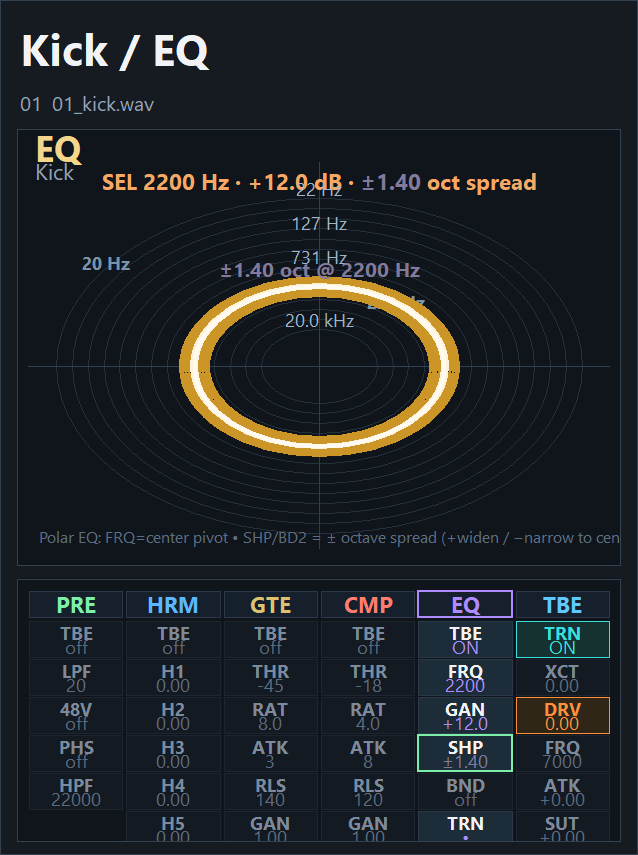
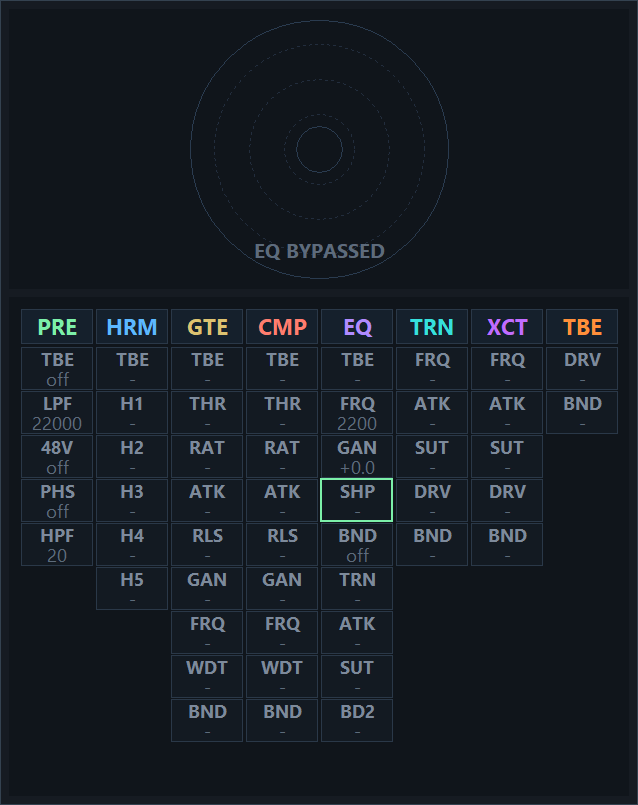
Anchor Polar Display to Master Signal for consistency

diff --git a/Development/software/system_q_ui.py b/Development/software/system_q_ui.py
@@ -257,34 +257,34 @@ class UIMixin:
     def _draw_focus_mic_pre(self, c: tk.Canvas, ch: ChannelState, w: int, h: int) -> None:
         cx, cy, orx, ory, irx, iry = self._focus_geometry(w, h)
         self._draw_focus_ring_grid(c, cx, cy, orx, ory, irx, iry)
-        self._draw_focus_signal(c, ch, cx, cy, orx, ory, irx, iry)
+        self._draw_focus_signal(c, self.engine.master_channel, cx, cy, orx, ory, irx, iry)
         c.create_text(cx, h - 40, text="MIC PRE", fill="#7cf0a9", font=("Segoe UI", 10, "bold"))
 
     def _draw_focus_harmonics(self, c: tk.Canvas, ch: ChannelState, w: int, h: int) -> None:
         cx, cy, orx, ory, irx, iry = self._focus_geometry(w, h)
         self._draw_focus_ring_grid(c, cx, cy, orx, ory, irx, iry)
-        self._draw_focus_signal(c, ch, cx, cy, orx, ory, irx, iry)
+        self._draw_focus_signal(c, self.engine.master_channel, cx, cy, orx, ory, irx, iry)
         c.create_text(cx, h - 40, text="HARMONICS", fill="#5cb8ff", font=("Segoe UI", 10, "bold"))
 
     def _draw_focus_gate(self, c: tk.Canvas, ch: ChannelState, w: int, h: int) -> None:
         cx, cy, orx, ory, irx, iry = self._focus_geometry(w, h)
         self._draw_focus_ring_grid(c, cx, cy, orx, ory, irx, iry)
-        self._draw_focus_signal(c, ch, cx, cy, orx, ory, irx, iry)
+        self._draw_focus_signal(c, self.engine.master_channel, cx, cy, orx, ory, irx, iry)
         c.create_text(cx, h - 40, text="GATE", fill="#ddc270", font=("Segoe UI", 10, "bold"))
 
     def _draw_focus_compressor(self, c: tk.Canvas, ch: ChannelState, w: int, h: int) -> None:
         cx, cy, orx, ory, irx, iry = self._focus_geometry(w, h)
         self._draw_focus_ring_grid(c, cx, cy, orx, ory, irx, iry)
-        self._draw_focus_signal(c, ch, cx, cy, orx, ory, irx, iry)
+        self._draw_focus_signal(c, self.engine.master_channel, cx, cy, orx, ory, irx, iry)
         c.create_text(cx, h - 40, text="COMPRESSOR", fill="#ff7d6e", font=("Segoe UI", 10, "bold"))
 
     def _draw_focus_tone(self, c: tk.Canvas, ch: ChannelState, w: int, h: int) -> None:
         cx, cy, orx, ory, irx, iry = self._focus_geometry(w, h)
         self._draw_focus_ring_grid(c, cx, cy, orx, ory, irx, iry)
-        self._draw_focus_signal(c, ch, cx, cy, orx, ory, irx, iry)
+        self._draw_focus_signal(c, self.engine.master_channel, cx, cy, orx, ory, irx, iry)
         sk = getattr(self, "selected_stage_key", "tbe")
         fill = self._STAGE_HEADER_FILL.get(sk, "#ff8f3a")
-        c.create_text(cx, h - 40, text=sk.upper(), fill=fill, font=("Segoe UI", 10, "bold"))
+        c.create_text(cx, h - 40, text=self._stage_label(sk).upper(), fill=fill, font=("Segoe UI", 10, "bold"))
 
     # --- Editor Renders ---
     def _draw_editor_controls(self) -> None:
